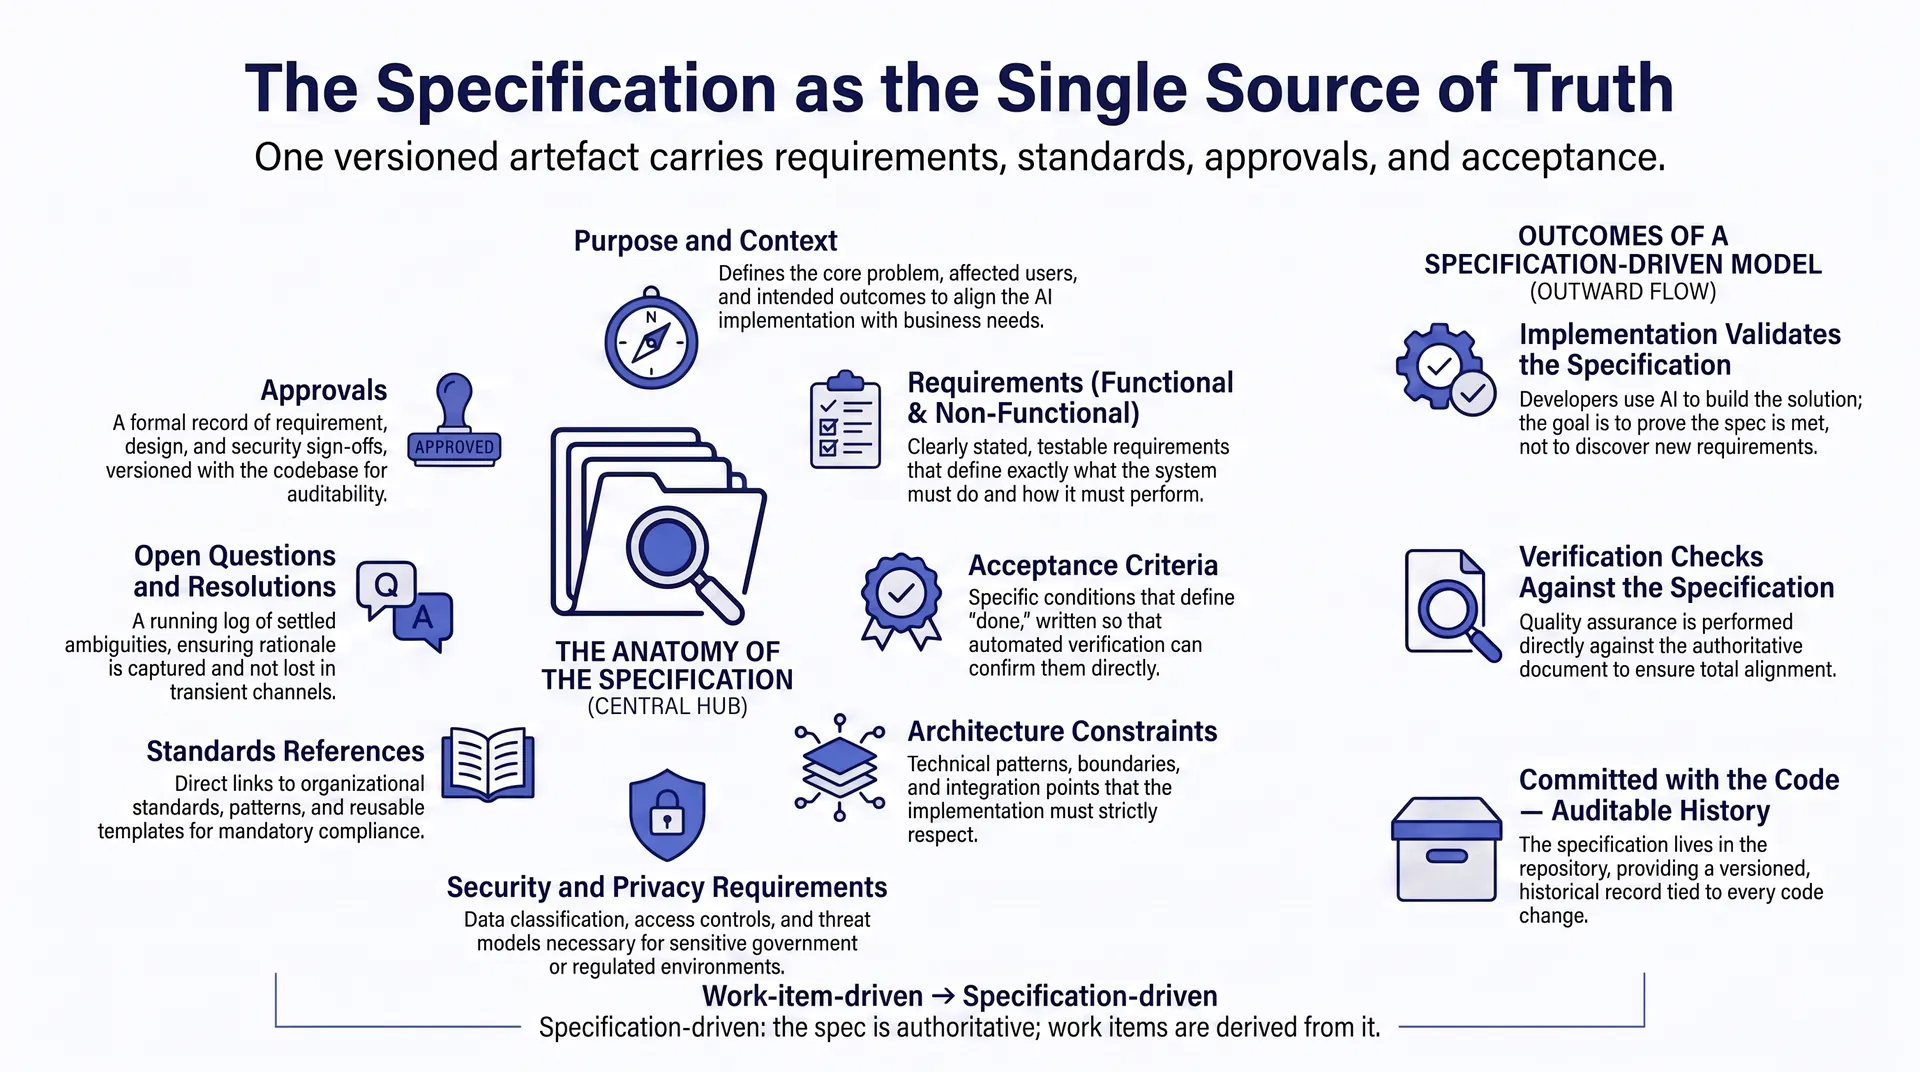
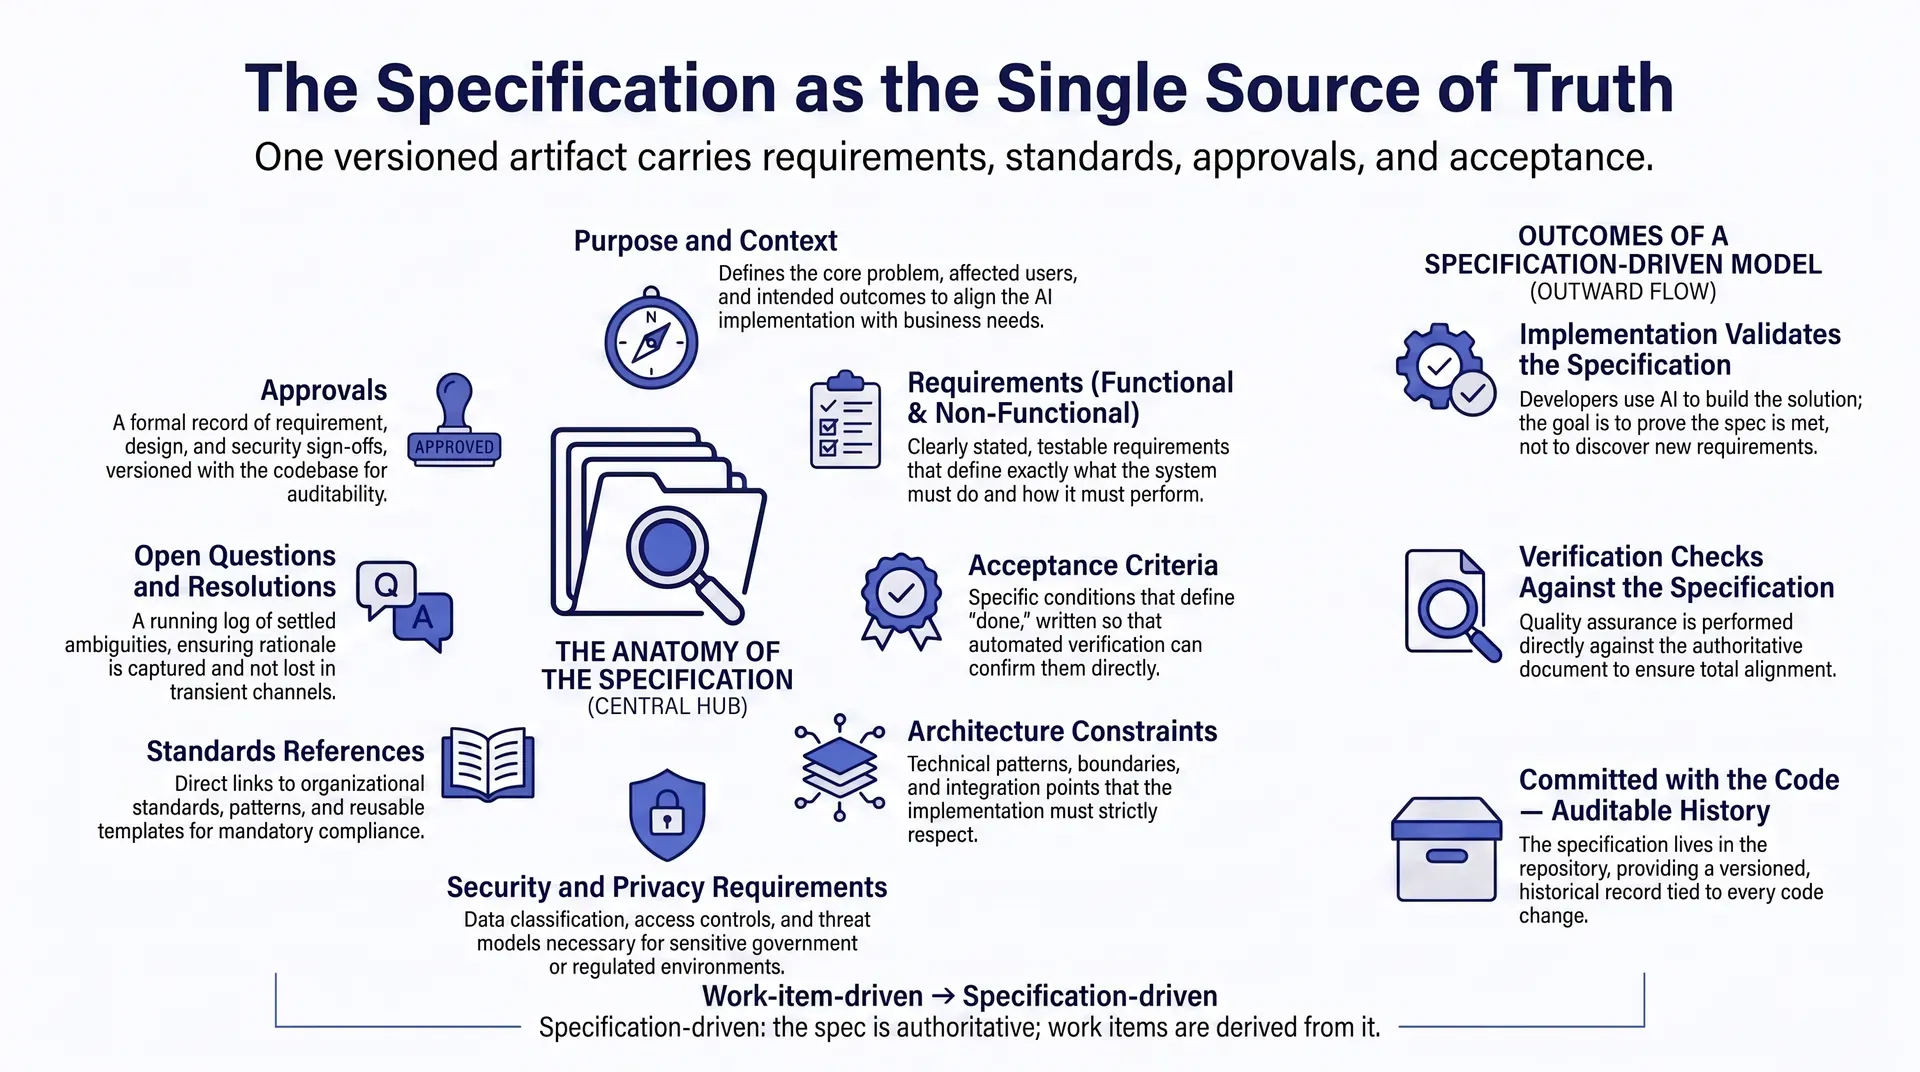
fix: correct three spelling errors inside the figures (#13)
## Summary

This PR fixes three spelling errors inside the NotebookLM figures.

| Figure | Before | After |
| --- | --- | --- |
| ECA wheel | "ECA site at the heart of the ADM" | "ECA sits at the
heart of the ADM" |
| Specification | "One versioned artefact" | "One versioned artifact" |
| Team topologies | "The "Specification" as Primary Artefact" | "...
Primary Artifact" |

Each fix copies a letter already drawn in the same image and line. The
`s` comes from "site", and each `i` from a neighboring word, so the
font, weight and anti-aliasing match. A pixel diff confirms that nothing
outside the edited words changed beyond re-encoding noise. The captions
now say a word was corrected by hand, and the roadmap drops the
"Replacement Delivery and ECA images" item.

## Change type

- [x] Editorial correction
- [ ] Architecture or blueprint
- [ ] Governance, security, privacy, or risk guidance
- [ ] Compliance mapping
- [ ] Release or repository infrastructure
- [ ] Breaking or normative change

## Validation

- [x] I ran `mkdocs build --strict` successfully.
- [x] Markdown and links pass automated checks.
- [x] My commits include a DCO `Signed-off-by` line.

## Reviewer guidance

Compare the three words on the rendered pages: context architecture,
specification-driven delivery, and team topologies.

🤖 Generated with [Claude Code](https://claude.com/claude-code)

Changed region(s): [[0.2812, 0.1231, 0.875, 0.1847]]

diff --git a/README.md b/README.md
@@ -45,7 +45,7 @@ ECA places seven context domains around Requirements Management and runs through
 
 [![Enterprise Context Architecture as a cross-cutting perspective on the TOGAF ADM cycle. Seven context domains (People & Org, Business, Information, Technology, Governance, Integration, and Operational) surround Requirements Management at the center. The eight ADM phases, A through H, encircle the domains.](docs/assets/diagrams/eca-adm-overview.png)](https://nishant-tamilselvan.github.io/enterprise-ai-framework/architecture/context-architecture/#context-wheel)
 
-<sub>Figure: generated with NotebookLM from the framework's text · Enterprise AI Framework · [CC BY 4.0](https://creativecommons.org/licenses/by/4.0/)</sub>
+<sub>Figure: generated with NotebookLM from the framework's text, with one word corrected by hand · Enterprise AI Framework · [CC BY 4.0](https://creativecommons.org/licenses/by/4.0/)</sub>
 
 ## Where to start
 
@@ -144,7 +144,6 @@ Then open `http://127.0.0.1:8000/enterprise-ai-framework/` in your browser. The 
 - Quality assurance and review for AI-assisted delivery across large programs
 - Governance quality gates and shadow-application controls
 - Coordination across many delivery teams
-- Replacement Delivery and ECA images with recorded provenance
 - NIST AI RMF mapping update once NIST publishes the revised framework
 
 ### v1.0: Stable framework

diff --git a/docs/delivery/team-topologies.md b/docs/delivery/team-topologies.md
@@ -21,7 +21,7 @@ provides the required collaboration and runs in short loops.
 
 ![Illustrative comparison of traditional and AI-assisted team allocation. A traditional team uses about nine full-time roles across architecture, development, verification, product ownership, delivery coordination, service design, and interaction design. An AI-assisted core uses about 3.75 full-time equivalents: one architect, one developer, and fractional verification, product ownership, service design, and delivery coordination. Security and privacy review, operational ownership, and interaction design engage on demand. The architect remains full-time and focuses on specification engineering. Developer and verification allocations decrease.](../assets/images/delivery-team-topologies.webp)
 
-<small>Figure: generated with NotebookLM from the framework's text · Enterprise AI Framework · [CC BY 4.0](https://creativecommons.org/licenses/by/4.0/)</small>
+<small>Figure: generated with NotebookLM from the framework's text, with one word corrected by hand · Enterprise AI Framework · [CC BY 4.0](https://creativecommons.org/licenses/by/4.0/)</small>
 
 ## Size teams by specification workload
 

diff --git a/docs/delivery/specification-driven-delivery.md b/docs/delivery/specification-driven-delivery.md
@@ -17,7 +17,7 @@ enough detail for an AI-assisted team to implement and validate directly.
 
 ![The specification as the authoritative delivery artifact. One versioned document holds eight components: purpose and context, requirements, acceptance criteria, architecture constraints, security and privacy requirements, standards references, open questions and resolutions, and approvals. It guides implementation and verification. Teams commit it with the code to create an auditable historical record and derive work items from it.](../assets/images/delivery-specification.webp)
 
-<small>Figure: generated with NotebookLM from the framework's text · Enterprise AI Framework · [CC BY 4.0](https://creativecommons.org/licenses/by/4.0/)</small>
+<small>Figure: generated with NotebookLM from the framework's text, with one word corrected by hand · Enterprise AI Framework · [CC BY 4.0](https://creativecommons.org/licenses/by/4.0/)</small>
 
 ## Specifications and work items
 

diff --git a/CHANGELOG.md b/CHANGELOG.md
@@ -62,6 +62,7 @@ The project uses the [Keep a Changelog](https://keepachangelog.com/en/1.1.0/) fo
 
 ### Fixed
 
+- Three spelling errors inside the figures. The ECA wheel reads "ECA sits at the heart" instead of "site". The specification and team topologies figures use the American "artifact". Each fix reuses letters from the same image, and the captions say a word was corrected by hand.
 - The link check retries slow sites up to four times with a 30-second timeout, so one timeout no longer fails the run.
 - The ECA wheel's credit no longer claims personal copyright for a figure generated with NotebookLM.
 - The changelog and the 0.2.0 release notes no longer claim that 0.2.0 adopted ECA. ECA shipped in 0.1.0, and the entries now sit under that release.

diff --git a/docs/architecture/context-architecture.md b/docs/architecture/context-architecture.md
@@ -49,7 +49,7 @@ ECA organizes enterprise context into seven domains, all feeding **Requirements 
 
 *Enterprise Context Architecture (ECA) as a cross-cutting perspective across the TOGAF ADM cycle.*
 
-<small>Figure: generated with NotebookLM from the framework's text · Enterprise AI Framework · [CC BY 4.0](https://creativecommons.org/licenses/by/4.0/)</small>
+<small>Figure: generated with NotebookLM from the framework's text, with one word corrected by hand · Enterprise AI Framework · [CC BY 4.0](https://creativecommons.org/licenses/by/4.0/)</small>
 
 ## Context wheel
 
